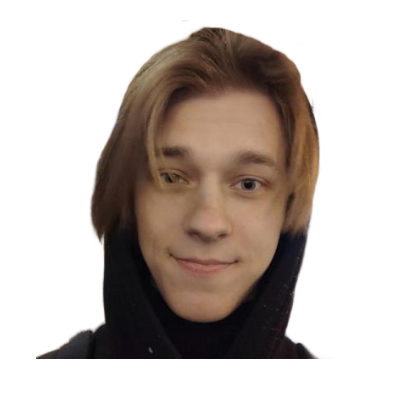
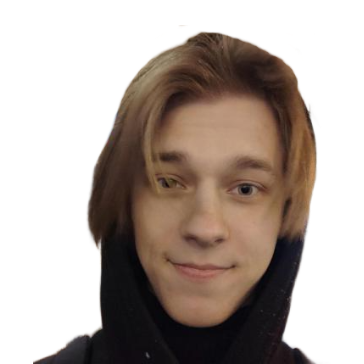
some fixes on "AboutMe" menu * refactoring all image part, layout has some refs

diff --git a/JevKrayPersonalSite/wwwroot/css/site.css b/JevKrayPersonalSite/wwwroot/css/site.css
@@ -46,6 +46,11 @@ footer {
   padding: 12px;
 }
 
+.padding-l-r-12 {
+  padding-left: 12px;
+  padding-right: 12px;
+}
+
 .pb-3-wt-padding {
   padding: 0% !important;
 }
@@ -54,21 +59,20 @@ footer {
   margin: 0 !important;
 }
 
-/*mostly for AboutMe css preset*/
-
 .palette-text {
   color: #94684d !important;
 }
 
 .photo-am {
-  float: right;
+  float: left;
   display: inline-block !important;
-  width: 30%;
+  width: 40%;
 }
 
 .text-am {
   float: left;
-  width: 70%;
+  width: 60%;
+  height: 100%;
   text-align: center;
   display: inline-block !important;
 }
@@ -77,4 +81,13 @@ footer {
   width: 100%;
   height: 100%;
   display: inline-block !important;
+  overflow: hidden;
+}
+
+.remove-padding-down {
+  padding-bottom: 0% !important;
+}
+
+.fixed-padding-down6_4 {
+  padding-bottom: 6.4px !important;
 }
